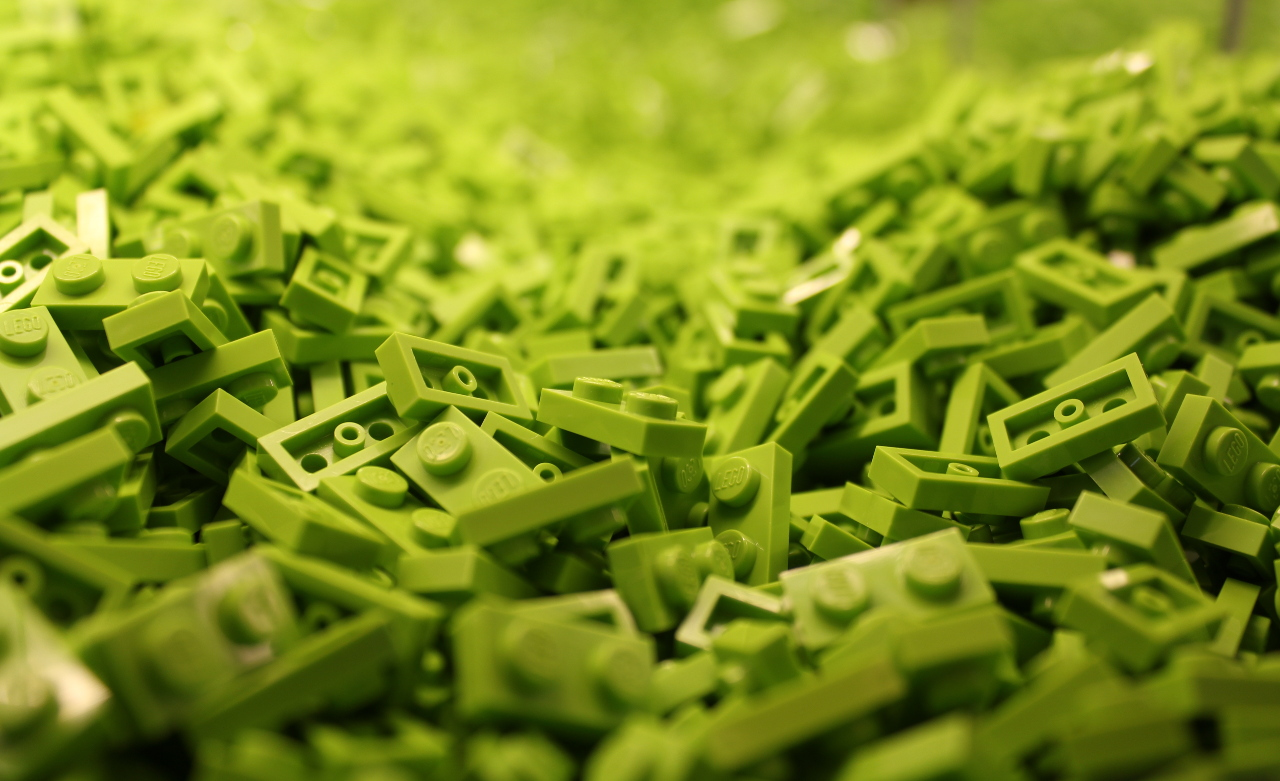
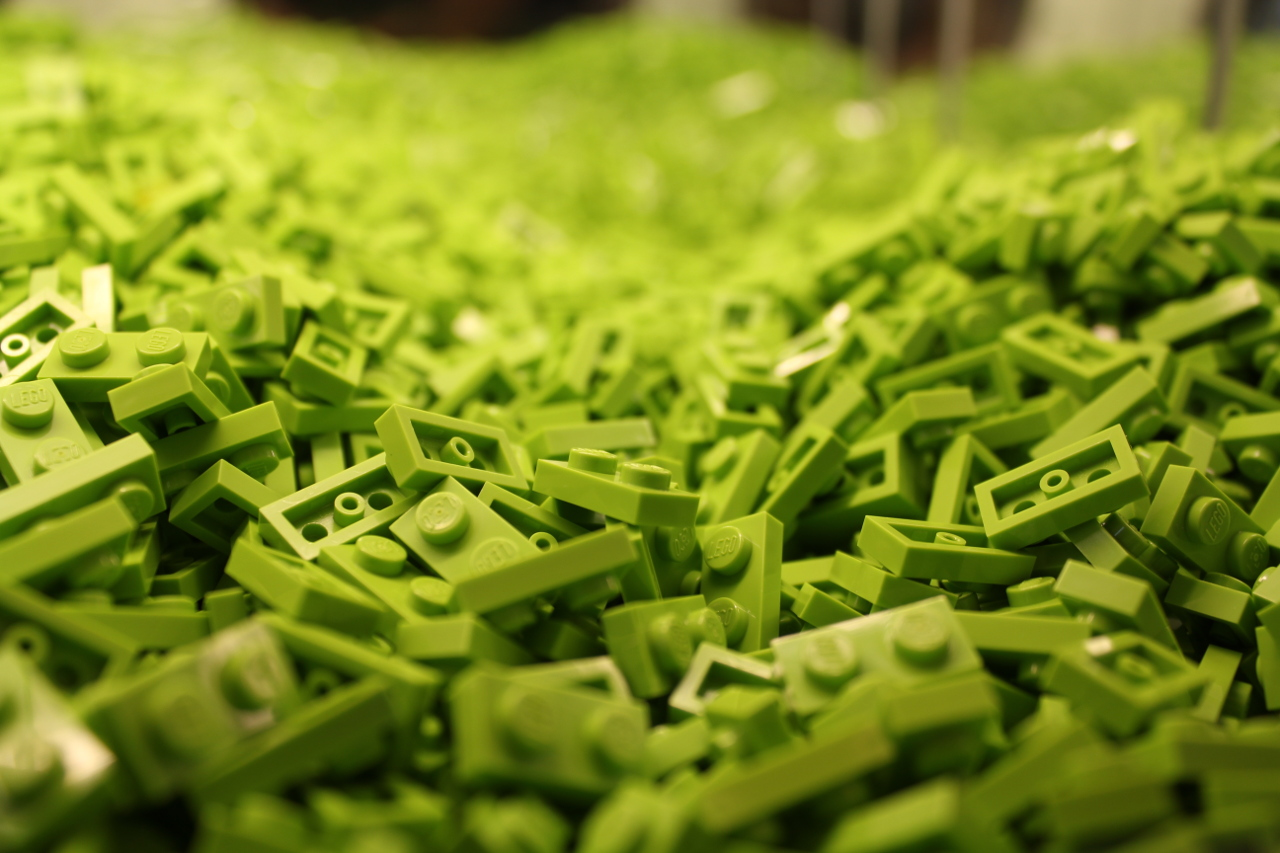
Add main parts

diff --git a/index.html b/index.html
@@ -6,29 +6,47 @@
 	<meta name="viewport" content="width=792, user-scalable=no">
 	<meta http-equiv="x-ua-compatible" content="ie=edge">
 	<link rel="stylesheet" href="./bower_components/shower-ribbon/styles/screen.css">
+    <style>
+        a.clean { background: none; }
+        .cover h2 { color: white; }
+        .cover h2       { margin: 0; font-size:70px;
+text-shadow: 0px 2px 3px #666;
+        }
+    </style>
 </head>
 <body class="list">
 	<header class="caption">
 		<h1>Web Components</h1>
 		<p>Grégory Paul, Valtech</p>
+		<style>
+			.caption h1,
+            .caption p { color:#FFF; }
+		</style>
 	</header>
 	<section class="slide cover" id="Cover"><div>
 		<h2>Web Components</h2>
         <img class="logo" src="imgs/webcomponents-logo.svg">
 		<p><a href="http://paulgreg.me">Grégory Paul</a>, <a href="https://twitter.com/paulgreg">@paulgreg</a></p>
-		<img src="imgs/lego-green.jpg" alt="">
+        <a href="http://www.valtech.fr/" class="clean"><img class="valtech" src="imgs/valtech-white.png"></a>
+		<img src="imgs/lego-blue.jpg" alt="">
 		<style>
-			#Cover, #Cover h2, #Cover p, #Cover a { color:#FFF; text-align:center; }
-			#Cover h2 { margin: 0; font-size:70px; }
-			#Cover p { margin:10px 0 0; font-style:italic; font-size:24px; }
-            #Cover .logo { position: relative; width: 400px; margin: 40px 0;  }
+			#Cover, #Cover h2, #Cover p, #Cover a { color:white; text-align:center; }
+			#Cover p        { margin:10px 0 0; font-style:italic; font-size:24px; }
+            #Cover .logo,
+            #Cover .valtech { position: relative; z-index: 1; margin: 20px 0; }
+            #Cover .logo    { max-width: 400px; }
+            #Cover .valtech { max-width: 200px; }
 		</style>
+	</div></section>
+
+	<section class="slide cover" id=""><div>
+		<h2>Web Component ?</h2>
+		<img src="imgs/lego-blue-2.jpg" alt="">
 	</div></section>
 
 	<section class="slide" id="Summary"><div>
 		<h2>Sommaire</h2>
         <ul>
-            <li>Web Component ?
             <li>Templates
             <li>Custom Elements
             <li>HTML imports
@@ -43,8 +61,44 @@
         </style>
 	</div></section>
 
-	<section class="slide" id=""><div>
-		<h2>Web Component ?</h2>
+	<section class="slide cover" id=""><div>
+		<h2>Templates</h2>
+		<img src="imgs/lego-green.jpg" alt="">
+	</div></section>
+
+	<section class="slide cover" id=""><div>
+		<h2>Custom Elements</h2>
+		<img src="imgs/lego-red.jpg" alt="">
+	</div></section>
+
+	<section class="slide cover" id=""><div>
+		<h2>HTML imports ?</h2>
+		<img src="imgs/lego-white.jpg" alt="">
+	</div></section>
+
+	<section class="slide cover" id=""><div>
+		<h2>Shadow DOM ?</h2>
+		<img src="imgs/lego-yellow.jpg" alt="">
+	</div></section>
+
+	<section class="slide cover" id=""><div>
+		<h2>Polymer ?</h2>
+		<img src="imgs/lego-blue-2.jpg" alt="">
+	</div></section>
+
+	<section class="slide cover" id=""><div>
+		<h2>X-Tags ?</h2>
+		<img src="imgs/lego-grey.jpg" alt="">
+	</div></section>
+
+	<section class="slide cover" id=""><div>
+		<h2>Démo</h2>
+		<img src="imgs/lego-red.jpg" alt="">
+	</div></section>
+
+	<section class="slide cover" id=""><div>
+		<h2>Resources</h2>
+		<img src="imgs/lego-green.jpg" alt="">
 	</div></section>
 
 	<div class="progress"><div></div></div>
